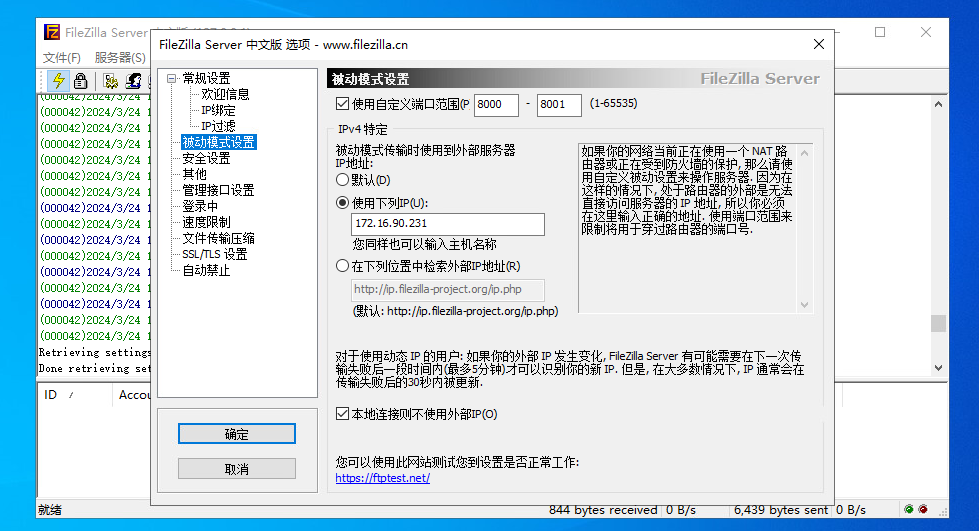
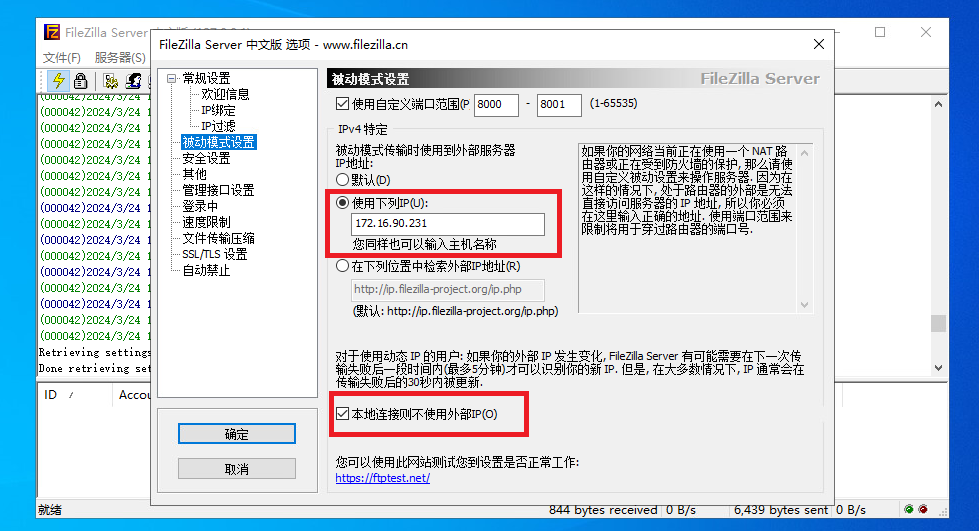
fix:修复了一些文本内容及图片

Changed region(s): [[0.3064, 0.3315, 0.5822, 0.5122], [0.3371, 0.7232, 0.5516, 0.8437]]

diff --git a/source/_posts/FileZilla-425-Can-t-open-data-connection-for-transfer-of.md b/source/_posts/FileZilla-425-Can-t-open-data-connection-for-transfer-of.md
@@ -9,7 +9,8 @@ tags:
 - ftp
 - FileZilla
 ---
-先介绍下网络环境，外网——服务器1——服务器2。服务器1做路由用，服务器2上安装FileZilla作为ftp的服务端，客户端与服务器1、服务器2均不在一个网段
+# 问题
+先介绍下网络环境，外网——服务器1——服务器2。服务器1做路由用，服务器2上安装FileZilla作为ftp的服务端，客户端与服务器1在一个网段下，与服务器2不在一个网段
 
 结果在客户端使用FileZilla的时候遇到了问题，具体表现为：
 
@@ -24,13 +25,16 @@ tags:
 
 ![](FileZilla-425-Can-t-open-data-connection-for-transfer-of/服务端报错.jpg)
 
+# 排查方向
 于是开始了痛苦排查之路：
 - STEP1.确认FileZilla是否打开被动模式，是否勾选使用自定义端口范围
 - STEP2.确认服务器2端口是否真的打开
   
+
   *需要在客户端发送请求时，开启对服务器2端口的扫描，因为被动模式下是动态开放端口，经确认已开启端口*
 - STEP3.确认是否在服务器1上开启端口转发，以及端口是否真的被打开
   
+
   *在客户端发送请求时，开启对服务器1端口的扫描，经确认已开放端口*
 
 但是这个时候陷入了瓶颈，明明端口都开着，也都扫到了，为什么过了一会儿就会发现端口被关闭以及报错了呢？
@@ -41,15 +45,15 @@ tags:
   
 于是爬出去看了看谷歌上的论坛，终于找到一个靠谱的解释：
 
-PASV的响应
-`227 Entering Passive Mode（192，168，31，32，31，65）`中可以看到这个IP地址是服务器2的IP地址，是一个私有的IP地址，不能被外网访问到。在这一步中我们需要返回的是服务器1的IP地址+端口号
+PASV的响应`227 Entering Passive Mode（192，168，31，32，31，65）`中可以看到这个IP地址是服务器2的IP地址，是一个私有的IP地址，不能被外网访问到。在这一步中我们需要返回的是服务器1的IP地址+端口号
 >Ip地址解读为：192.168.31.32，端口号为：31*256+65=8001，所以该完整地址为：192.168.31.32:8001
 
+# 解决方案
 知道了错误原因就很好解决了，如图：
-- 在被动模式下使用静态的公共的IP
+- 1.在被动模式下使用静态的公共的IP
   
   >这里因为在服务器1上设置了端口转发，所以留的是服务器1的IP地址，如果FTP服务器直连外网的话需要留的是公网IP
-- 勾选本地连接则不使用外部IP
+- 2.勾选本地连接则不使用外部IP
   
   ~~这个猜测是个历史遗留Bug，不勾选的话上述配置会不生效~~
 
